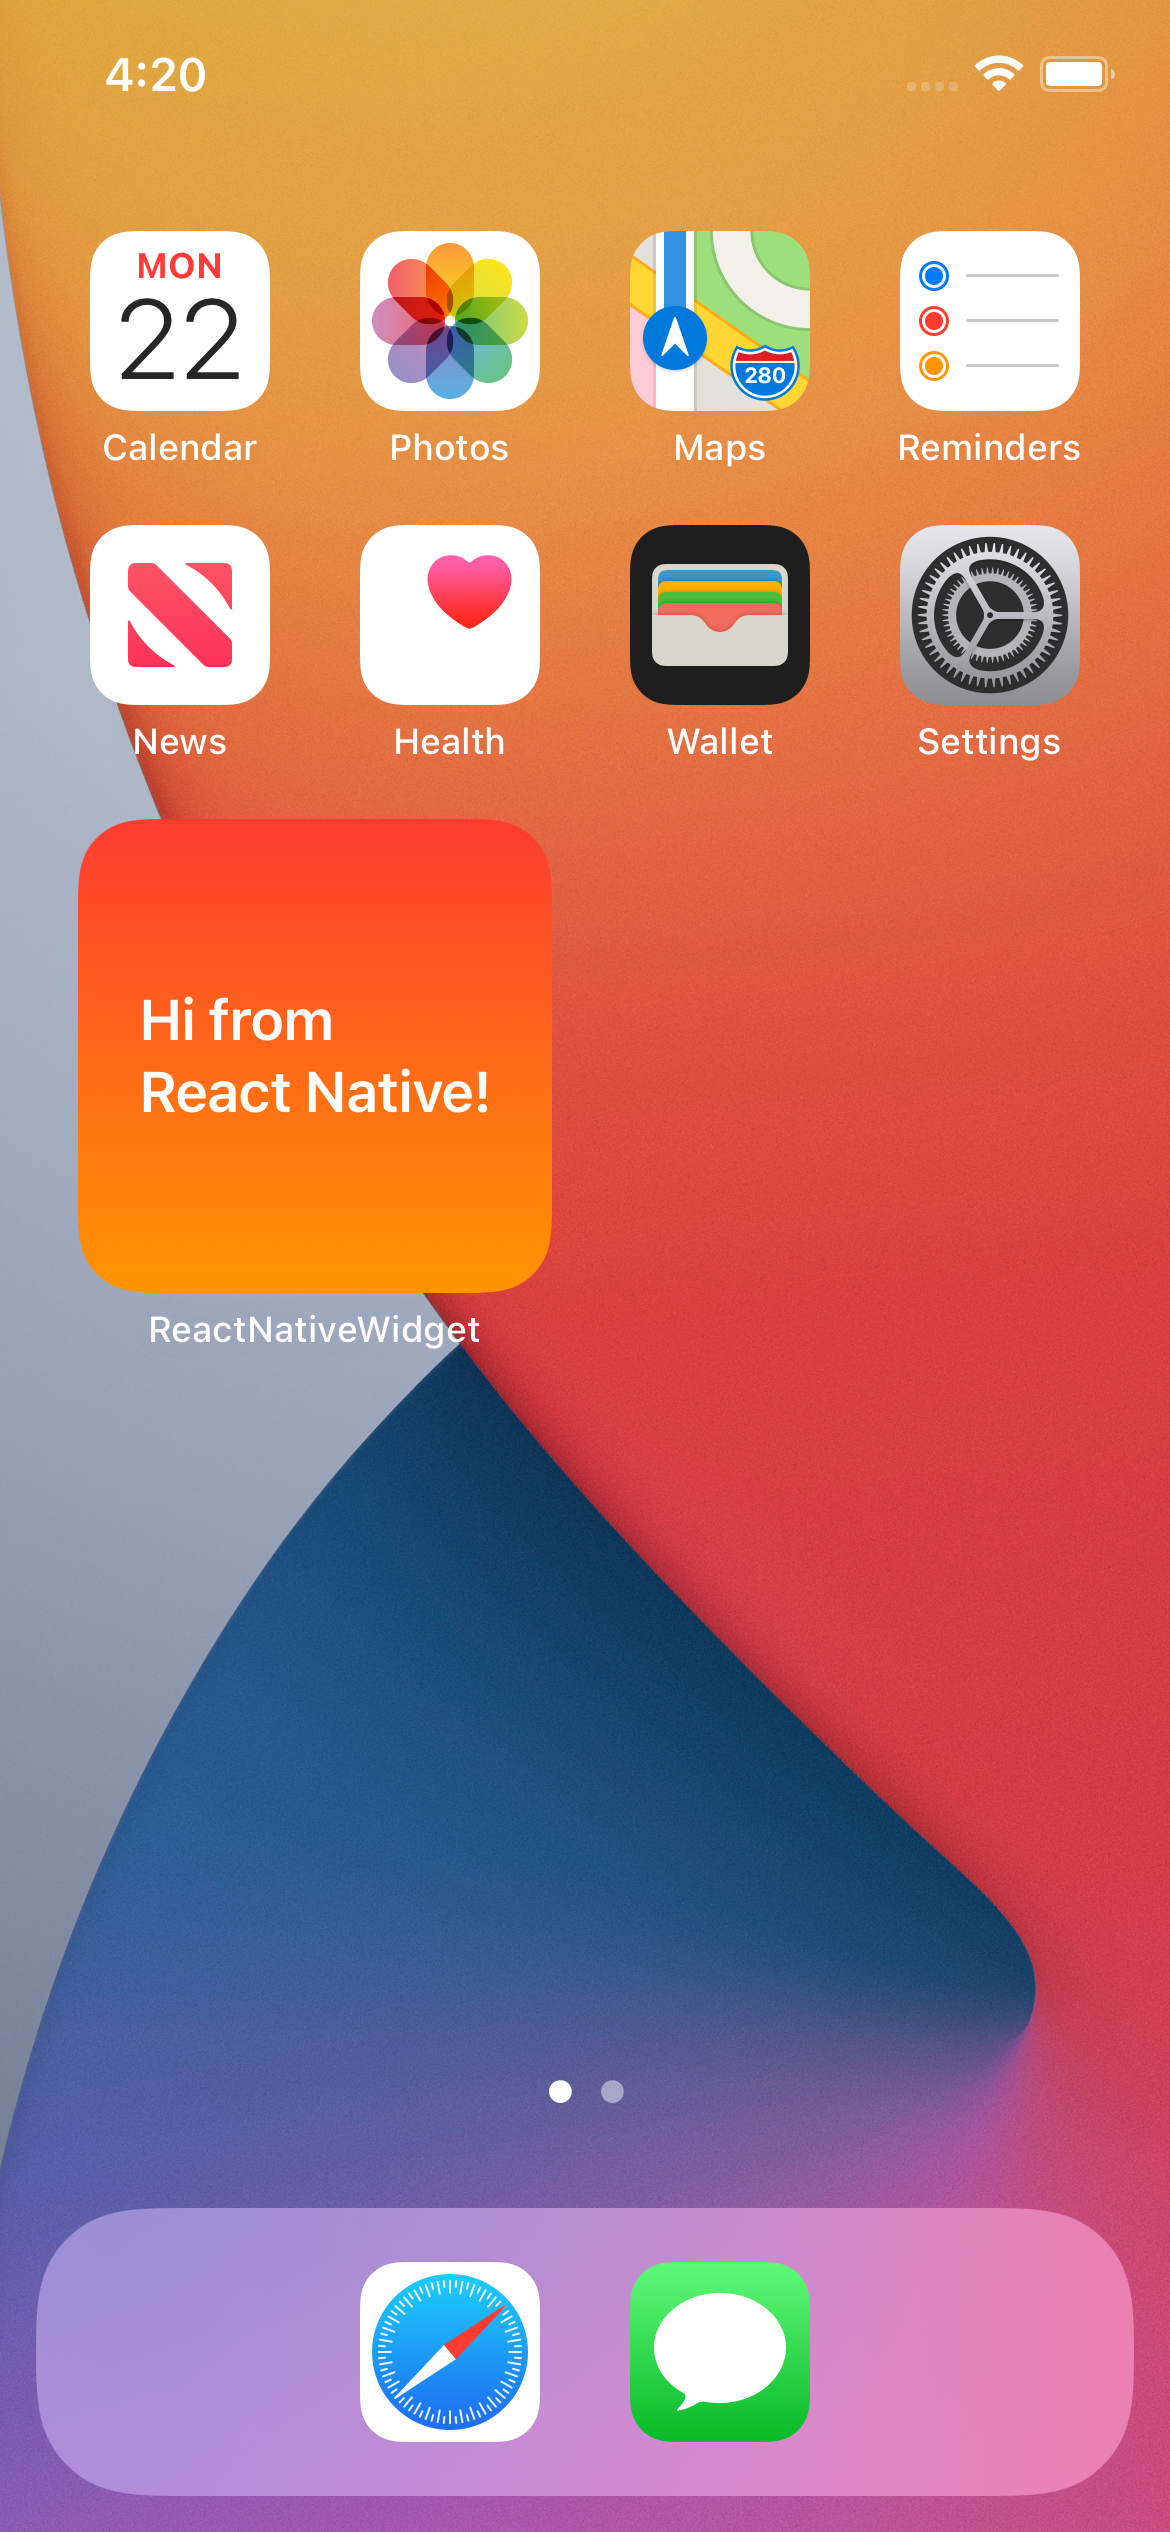
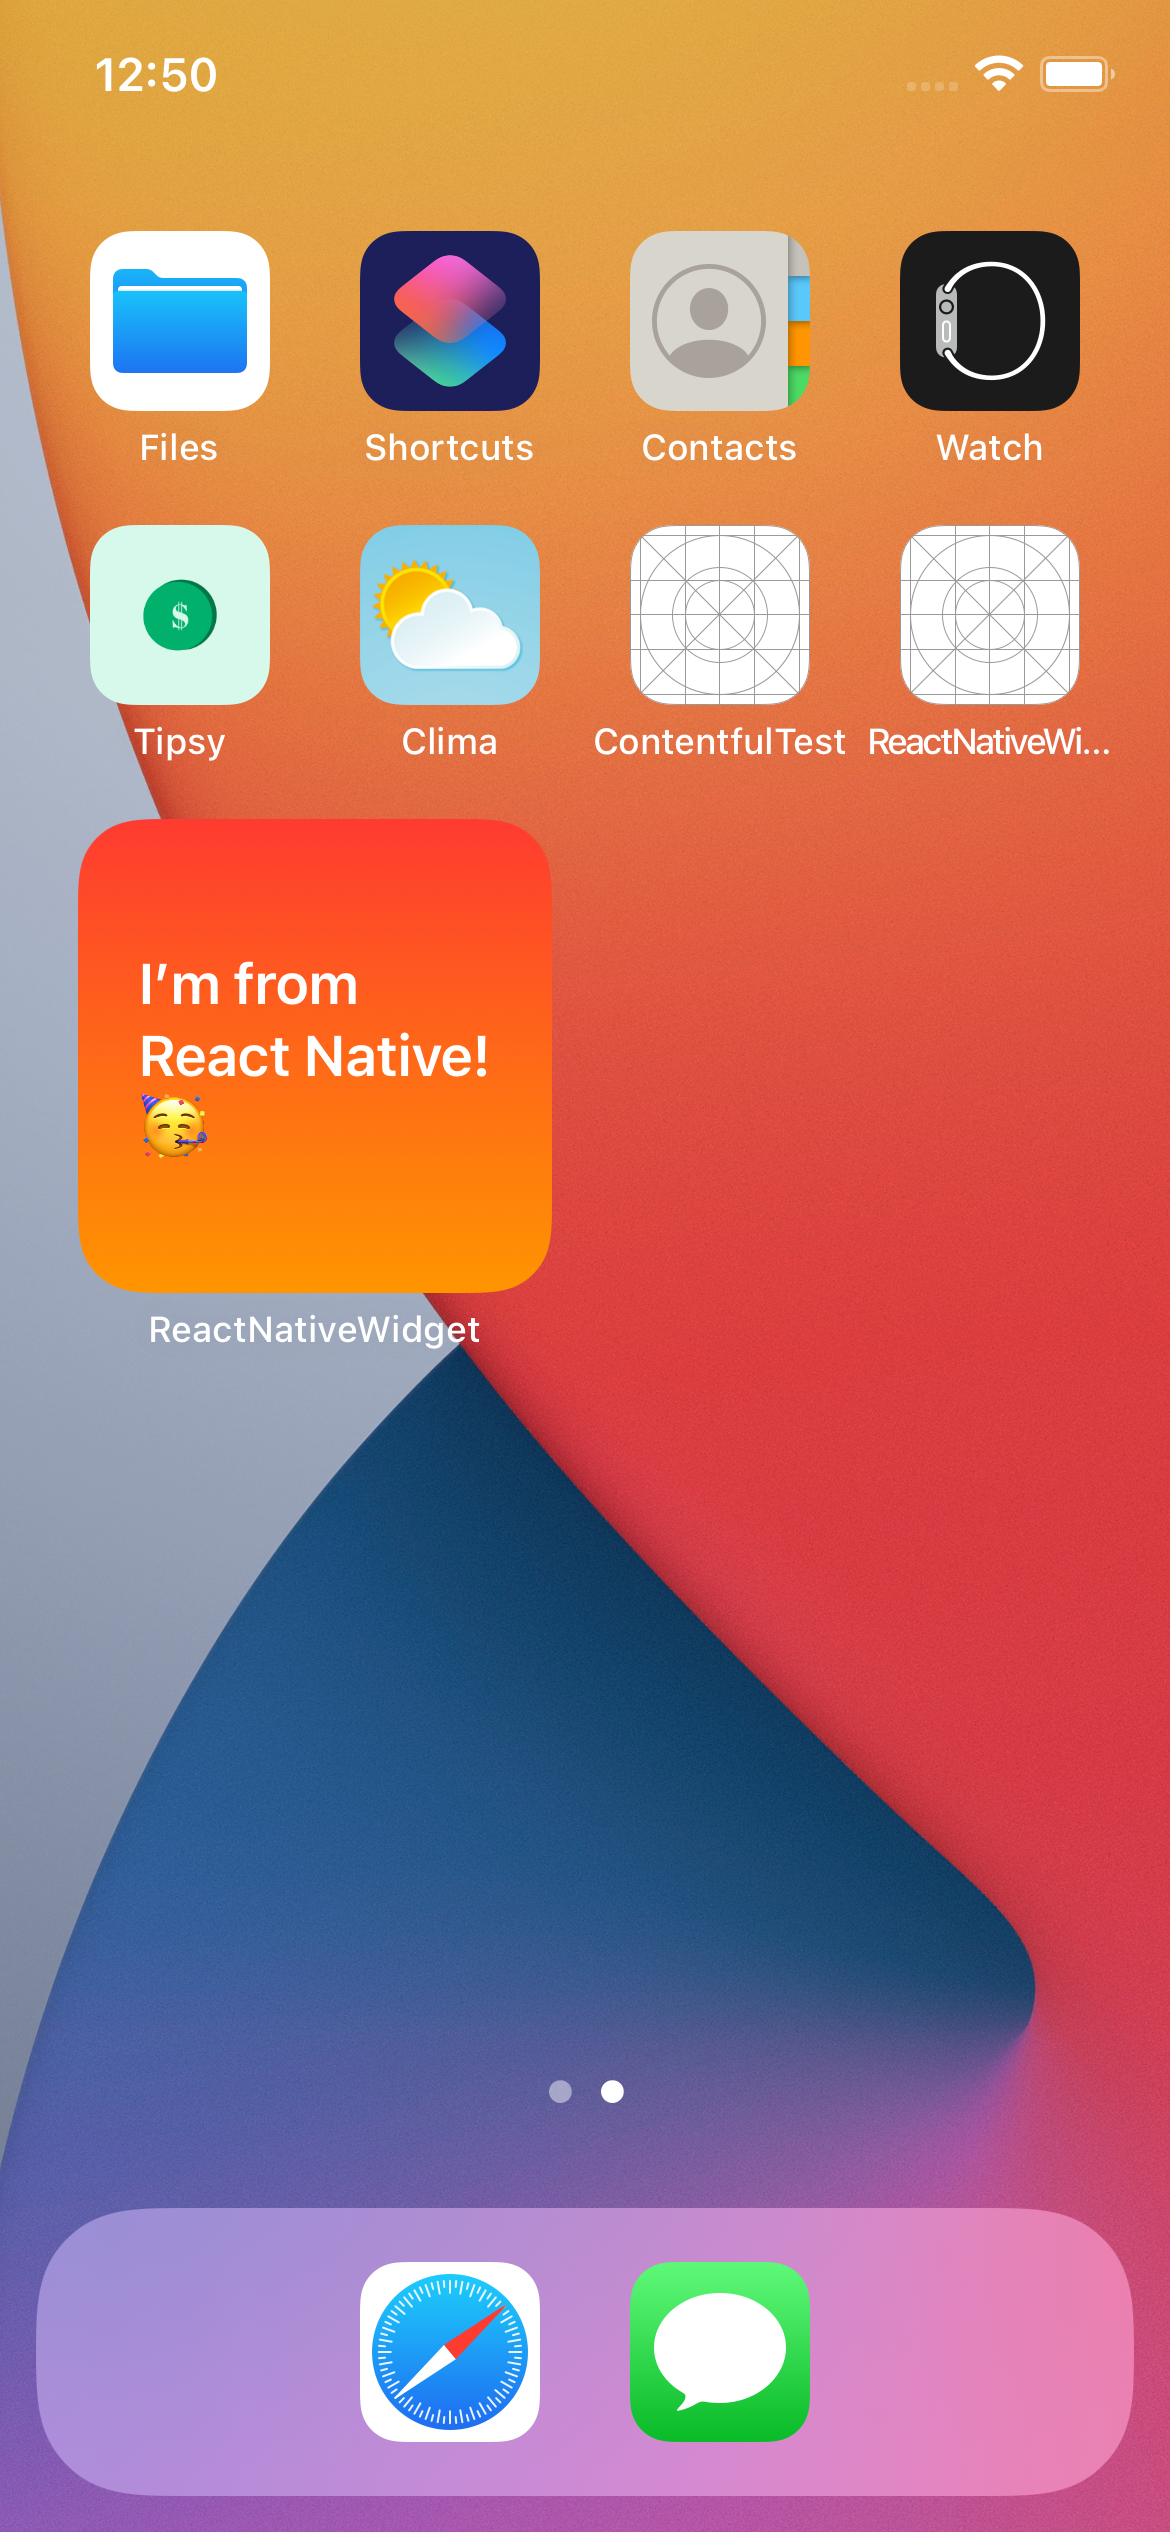
Update code for blog post

diff --git a/ios/WidgetTest/WidgetTest.swift b/ios/WidgetTest/WidgetTest.swift
@@ -19,41 +19,34 @@ struct Provider: IntentTimelineProvider {
   }
   
   func getSnapshot(for configuration: ConfigurationIntent, in context: Context, completion: @escaping (SimpleEntry) -> ()) {
-    let entry = SimpleEntry(date: Date(), configuration: configuration, displayText: "DATA")
+    let entry = SimpleEntry(date: Date(), configuration: configuration, displayText: "Data goes here")
     completion(entry)
   }
   
   func getTimeline(for configuration: ConfigurationIntent, in context: Context, completion: @escaping (Timeline<SimpleEntry>) -> Void) {
-    var entryDate = Date()
+    let entryDate = Date()
     
-    let sharedDefaults = UserDefaults.init(suiteName: "group.YOURINFO.HERE")
-    var entries: [SimpleEntry] = []
-    if sharedDefaults != nil {
-      if let aValue = sharedDefaults!.value(forKey: "savedData") as? String {
+    let userDefaults = UserDefaults.init(suiteName: "group.com.YOURINFO.ReactNativeWidget")
+    if userDefaults != nil {
+      if let savedData = userDefaults!.value(forKey: "savedData") as? String {
         let decoder = JSONDecoder()
-        let data = aValue.data(using: .utf8)
+        let data = savedData.data(using: .utf8)
         
         if let parsedData = try? decoder.decode(WidgetData.self, from: data!) {
-          for minuteOffset in 0 ..< 5 {
-            entryDate = Calendar.current.date(byAdding: .minute, value: minuteOffset, to: entryDate)!
-            let entry = SimpleEntry(date: entryDate, configuration: configuration, displayText: parsedData.displayText)
-            entries.append(entry)
-          }
+          let nextRefresh = Calendar.current.date(byAdding: .minute, value: 5, to: entryDate)!
+          let entry = SimpleEntry(date: nextRefresh, configuration: configuration, displayText: parsedData.displayText)
+          let timeline = Timeline(entries: [entry], policy: .atEnd)
           
-          let timeline = Timeline(entries: entries, policy: .atEnd)
           completion(timeline)
         } else {
           print("Could not parse data")
         }
         
       } else {
-        for minuteOffset in 0 ..< 5 {
-          entryDate = Calendar.current.date(byAdding: .minute, value: minuteOffset, to: entryDate)!
-          let entry = SimpleEntry(date: entryDate, configuration: configuration, displayText: "Hi there, offset: \(minuteOffset)")
-          entries.append(entry)
-        }
+        let nextRefresh = Calendar.current.date(byAdding: .minute, value: 5, to: entryDate)!
+        let entry = SimpleEntry(date: nextRefresh, configuration: configuration, displayText: "No data set")
+        let timeline = Timeline(entries: [entry], policy: .atEnd)
         
-        let timeline = Timeline(entries: entries, policy: .atEnd)
         completion(timeline)
       }
     }

diff --git a/App.tsx b/App.tsx
@@ -12,7 +12,7 @@ import React, { useState } from 'react';
 import { StyleSheet, View, Text, TextInput } from 'react-native';
 import SharedGroupPreferences from 'react-native-shared-group-preferences';
 
-const appGroupIdentifier = 'group.YOURINFO.HERE';
+const appGroupIdentifier = 'group.com.YOURINFO.ReactNativeWidget';
 
 const App = () => {
   const [inputText, setInputText] = useState<string>();

diff --git a/README.md b/README.md
@@ -1,6 +1,7 @@
 ## iOS Widgetkit + React Native
 
-<img src="./assets/hi.png" alt="React Native screenshot with Widgetkit" width="400" />
+<img src="./assets/input.png" alt="React Native screenshot with Widgetkit" width="350" />
+<img src="./assets/hi.png" alt="React Native screenshot with Widgetkit" width="350" />
 
 <br />
 <br />
